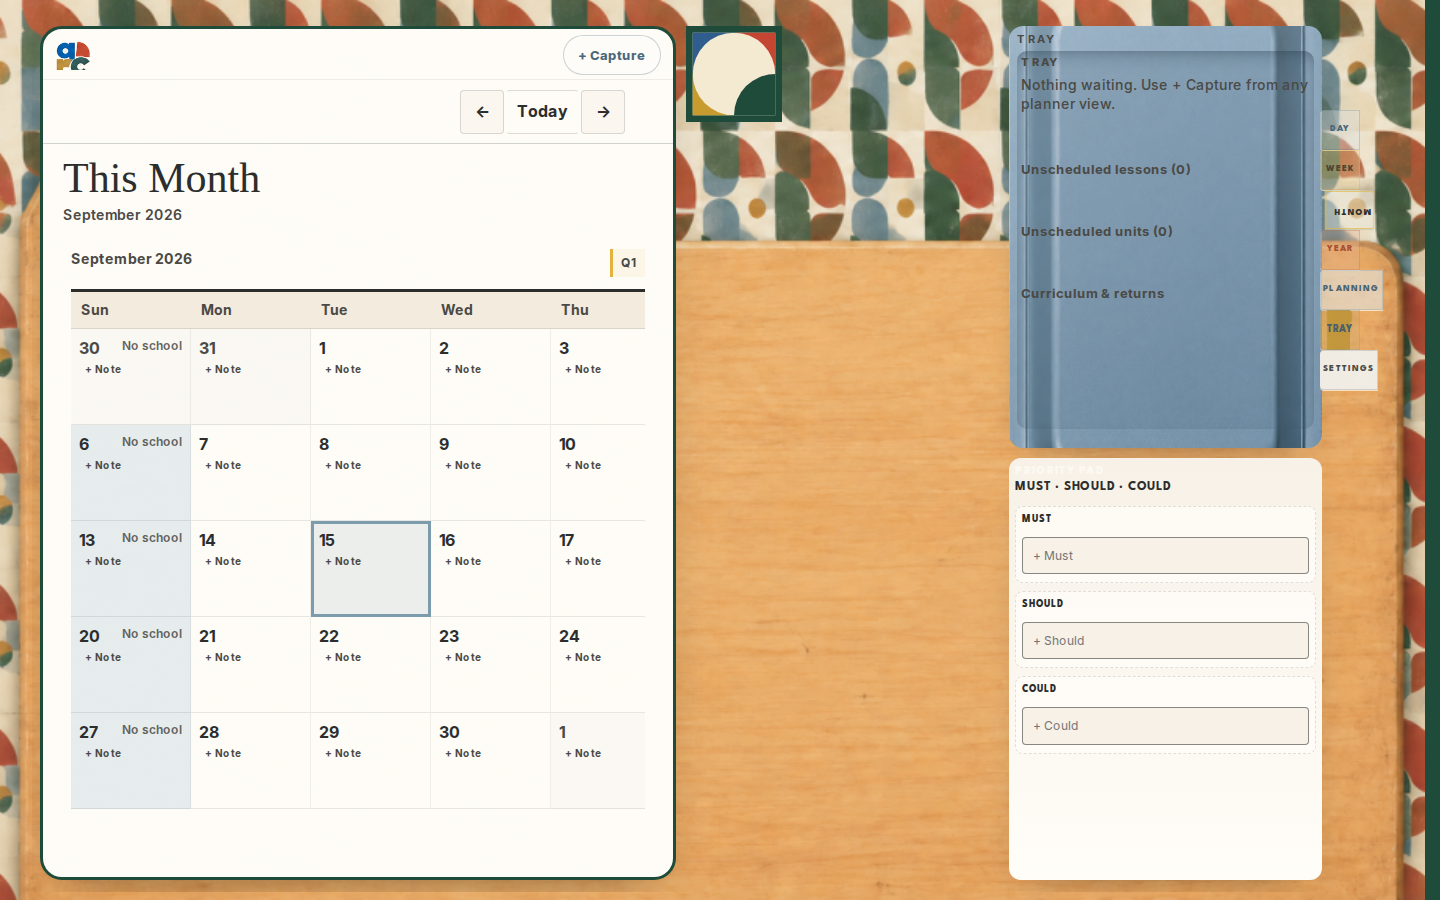
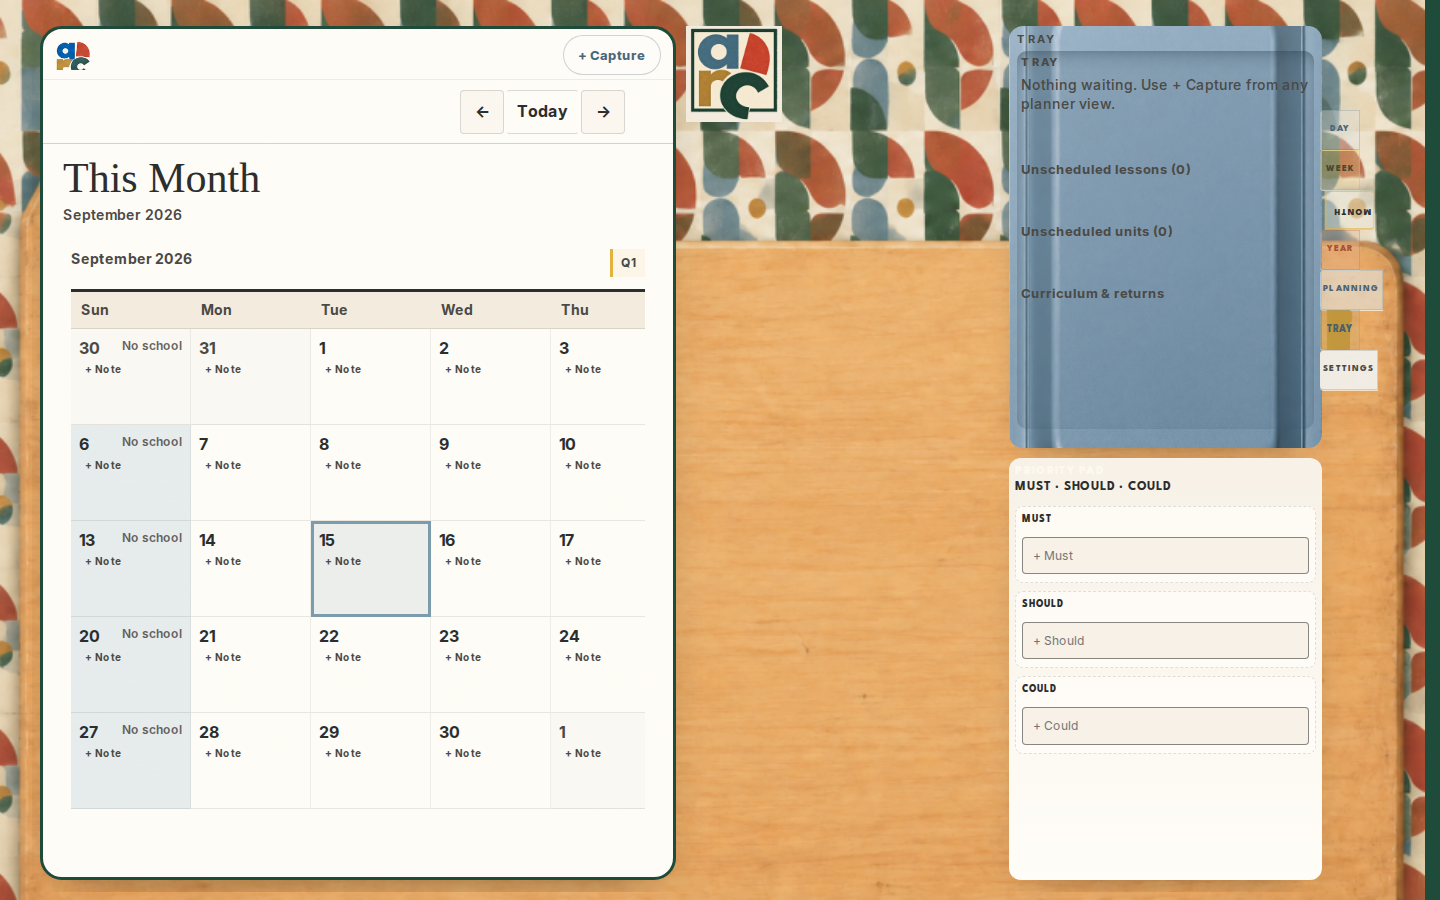
feat(desk): functional AT-001 ArcTable mark with five actions and entitlement routing
Wire center open and quadrant actions through arcTableDeskActions to existing
ArcTable session hooks. Use canonical SVG asset with expanded hit targets, contextual
free previews, live badge and context line, and disabled interactions during Edit
Workspace. Add action contract tests, update desk smokes and evidence.

Changed region(s): [[0.4688, 0.0311, 0.5625, 0.1556]]

diff --git a/src/components/PlanningMonthView.tsx b/src/components/PlanningMonthView.tsx
@@ -2,8 +2,8 @@ import type { MonthProjection, ProjectedDay } from '../calendar/projections'
 import type { ISODate, PlanNavigationContext } from '../calendar'
 import type { LessonWorkspace } from '../planning'
 import type { MonthLessonSignal, MonthPlanningProjection, MonthUnitSegment } from '../planning/monthPlanningProjection'
-import type { PlanningNote } from '../planning'
-import { CalendarDayNotes, CalendarDayNoteDropTarget, type CalendarDayNoteHandlers } from './CalendarDayNotes'
+import type { CaptureWorkspace, PlanningNote } from '../planning'
+import { CalendarDayCaptures, CalendarDayNotes, CalendarDayNoteDropTarget, type CalendarDayNoteHandlers } from './CalendarDayNotes'
 import { ArcImportantObject } from './ArcImportantObject'
 import { ArcObjectMenu, type ArcObjectMenuItem } from './ArcObjectMenu'
 import { formatLongDate, formatMonthKey, formatShortDate } from './dateLabels'
@@ -23,6 +23,8 @@ export function PlanningMonthView({
   onBeginPlanLessonMove,
   onSetLessonImportant,
   dayNotes,
+  captureWorkspace,
+  onMoveCaptureToDate,
 }: {
   month: MonthProjection
   planning: MonthPlanningProjection
@@ -36,6 +38,8 @@ export function PlanningMonthView({
   onBeginPlanLessonMove?: (input: { lessonId: string; sectionId: string | null; defaultDestination?: ISODate | null }) => void
   onSetLessonImportant?: (lessonId: string, important: boolean) => boolean
   dayNotes?: CalendarDayNoteHandlers
+  captureWorkspace?: CaptureWorkspace | null
+  onMoveCaptureToDate?: (captureId: string, anchorDate: ISODate | null) => boolean
 }) {
   const noteHandlers: CalendarDayNoteHandlers = dayNotes ?? {}
 
@@ -71,6 +75,8 @@ export function PlanningMonthView({
                   onSelectDate={onSelectDate}
                   onBeginPlanLessonMove={onBeginPlanLessonMove}
                   onSetLessonImportant={onSetLessonImportant}
+                  captureWorkspace={captureWorkspace}
+                  onMoveCaptureToDate={onMoveCaptureToDate}
                 />
               ))}
             </div>
@@ -122,6 +128,8 @@ function MonthDayCell({
   onSelectDate,
   onBeginPlanLessonMove,
   onSetLessonImportant,
+  captureWorkspace,
+  onMoveCaptureToDate,
 }: {
   day: ProjectedDay
   notes: PlanningNote[]
@@ -135,6 +143,8 @@ function MonthDayCell({
   onSelectDate?: (date: ISODate) => void
   onBeginPlanLessonMove?: (input: { lessonId: string; sectionId: string | null; defaultDestination?: ISODate | null }) => void
   onSetLessonImportant?: (lessonId: string, important: boolean) => boolean
+  captureWorkspace?: CaptureWorkspace | null
+  onMoveCaptureToDate?: (captureId: string, anchorDate: ISODate | null) => boolean
 }) {
   const nonTeaching = day.kind === 'no-school' || day.kind === 'holiday' || day.kind === 'break' || day.kind === 'teacher-workday'
   const dayStatus = day.kind === 'early-release'
@@ -156,6 +166,7 @@ function MonthDayCell({
     <CalendarDayNoteDropTarget
       date={day.date}
       onDropNote={(noteId, targetDate) => noteHandlers.onMove?.(noteId, targetDate) ?? false}
+      onDropCapture={onMoveCaptureToDate ? (captureId, targetDate) => onMoveCaptureToDate(captureId, targetDate) : undefined}
     >
       <div className={classes} aria-label={`${formatLongDate(day.date)}${ariaStatus ? `. ${ariaStatus}` : ''}`}>
         <div className="planning-month-day-heading">
@@ -163,6 +174,11 @@ function MonthDayCell({
           {dayStatus ? <span className="planning-month-day-status">{dayStatus}</span> : null}
         </div>
         <CalendarDayNotes notes={notes} date={day.date} compact dateBounds={monthDateBounds} handlers={noteHandlers} />
+        <CalendarDayCaptures
+          captures={captureWorkspace?.captures ?? []}
+          date={day.date}
+          onMoveCaptureToDate={onMoveCaptureToDate}
+        />
         <div className="planning-month-signals">
           {signals.map((signal) => (
             <MonthLessonSignalView

diff --git a/src/components/CalendarDayNotes.tsx b/src/components/CalendarDayNotes.tsx
@@ -1,6 +1,7 @@
 import { useId, useState, type ReactNode } from 'react'
 import type { ISODate } from '../calendar/types'
-import type { PlanningNote } from '../planning'
+import type { PlanningCapture, PlanningNote } from '../planning'
+import { hasTrayCaptureDrag, readTrayCaptureDrag, TRAY_CAPTURE_DRAG_MIME, encodeTrayCaptureDrag } from '../planning/deskDrag'
 import { ArcImportantObject } from './ArcImportantObject'
 import { ArcObjectMenu, promptMoveToDate, type ArcObjectMenuItem } from './ArcObjectMenu'
 
@@ -178,25 +179,70 @@ function DayNoteCard({
   )
 }
 
+export function CalendarDayCaptures({
+  captures,
+  date,
+  onMoveCaptureToDate,
+}: {
+  captures: PlanningCapture[]
+  date: ISODate
+  onMoveCaptureToDate?: (captureId: string, anchorDate: ISODate | null) => boolean
+}) {
+  const dayCaptures = captures.filter((capture) => capture.anchorDate === date)
+  if (!dayCaptures.length) return null
+  return (
+    <div className="calendar-day-captures" data-testid={`calendar-day-captures-${date}`}>
+      {dayCaptures.map((capture) => (
+        <button
+          key={capture.id}
+          type="button"
+          className="calendar-day-capture-chip"
+          data-testid={`calendar-capture-${capture.id}`}
+          draggable={Boolean(onMoveCaptureToDate)}
+          onDragStart={(event) => {
+            if (!onMoveCaptureToDate) return
+            event.dataTransfer.effectAllowed = 'move'
+            event.dataTransfer.setData(TRAY_CAPTURE_DRAG_MIME, encodeTrayCaptureDrag({ kind: 'capture', captureId: capture.id }))
+          }}
+        >
+          {capture.text}
+        </button>
+      ))}
+    </div>
+  )
+}
+
 export function CalendarDayNoteDropTarget({
   date,
   onDropNote,
+  onDropCapture,
   children,
 }: {
   date: ISODate
   onDropNote?: (noteId: string, date: ISODate) => boolean
+  onDropCapture?: (captureId: string, date: ISODate) => boolean
   children: ReactNode
 }) {
   return (
     <div
       className="calendar-day-note-drop"
+      data-drag-target="DATE"
+      data-plan-drop-date={date}
       onDragOver={(event) => {
-        if (event.dataTransfer.types.includes('application/x-arc-day-note-id')) {
+        const acceptsNote = event.dataTransfer.types.includes('application/x-arc-day-note-id')
+        const acceptsCapture = hasTrayCaptureDrag(event.dataTransfer)
+        if (acceptsNote || acceptsCapture) {
           event.preventDefault()
           event.dataTransfer.dropEffect = 'move'
         }
       }}
       onDrop={(event) => {
+        const capturePayload = readTrayCaptureDrag(event.dataTransfer)
+        if (capturePayload && onDropCapture) {
+          event.preventDefault()
+          onDropCapture(capturePayload.captureId, date)
+          return
+        }
         const noteId = event.dataTransfer.getData('application/x-arc-day-note-id')
         if (!noteId || !onDropNote) return
         event.preventDefault()

diff --git a/src/components/WorkspacePanel.tsx b/src/components/WorkspacePanel.tsx
@@ -1,4 +1,4 @@
-import { useEffect, useMemo, useRef, useState } from 'react'
+import { useEffect, useMemo, useRef, useState, type DragEvent } from 'react'
 import type { ISODate } from '../calendar'
 import type { CaptureWorkspace, Lesson, PlanningCapture, UnitWorkspace } from '../planning'
 import type { ObjectStack, StackWorkspace } from '../planning/stacks'
@@ -10,6 +10,7 @@ import {
   encodeTrayCaptureDrag,
   encodeTrayStackDrag,
   hasTrayCaptureDrag,
+  readTrayCaptureDrag,
 } from '../planning/deskDrag'
 import { ArcImportantObject } from './ArcImportantObject'
 import { ArcObjectMenu, promptMoveToDate, type ArcObjectMenuItem } from './ArcObjectMenu'
@@ -86,8 +87,29 @@ export function WorkspacePanel(props: Props) {
     }, STACK_DWELL_MS)
   }
 
+  function acceptTrayReturnDrop(event: DragEvent) {
+    if (!props.onMoveCaptureToDate || props.planningDragDisabled) return
+    if (!hasTrayCaptureDrag(event.dataTransfer)) return
+    event.preventDefault()
+    event.dataTransfer.dropEffect = 'move'
+  }
+
+  function handleTrayReturnDrop(event: DragEvent) {
+    if (!props.onMoveCaptureToDate || props.planningDragDisabled) return
+    const payload = readTrayCaptureDrag(event.dataTransfer)
+    if (!payload) return
+    event.preventDefault()
+    props.onMoveCaptureToDate(payload.captureId, null)
+  }
+
   return (
-    <div className="b01-fridge-content b01-fridge-content--repair-pass-3 b01-tray-content">
+    <div
+      className="b01-fridge-content b01-fridge-content--repair-pass-3 b01-tray-content"
+      data-drag-target="TRAY"
+      data-testid="tray-drop-surface"
+      onDragOver={acceptTrayReturnDrop}
+      onDrop={handleTrayReturnDrop}
+    >
       <section aria-labelledby="workspace-captures-heading" className="workspace-captures-primary">
         <div className="workspace-captures-heading-row">
           <h2 id="workspace-captures-heading">Tray</h2>

diff --git a/src/components/CalendarProjectionView.tsx b/src/components/CalendarProjectionView.tsx
@@ -46,9 +46,10 @@ type Props = {
   onSetLessonImportant?: (lessonId: string, important: boolean) => boolean
   onBeginPlanLessonMove?: (input: { lessonId: string; sectionId: string | null; defaultDestination?: ISODate | null }) => void
   onOpenRecoveryForSection?: (sectionId: string) => void
+  onMoveCaptureToDate?: (captureId: string, anchorDate: ISODate | null) => boolean
 }
 
-export function CalendarProjectionView({ view, calendar, anchorDate, planningContext, planContext, showWeekends = false, onStartClass, onSelectDate, onSelectYearUnit, onSelectTeachingBlock, onSelectLesson, onRetreatPlanFocus, onOpenWorkspace, onFollowPlanningAttention, onReturnToPlanningPeriod, planningPeriodReturnPending = false, captureWorkspace = null, dayNotes, onSetLessonImportant, onBeginPlanLessonMove, onOpenRecoveryForSection }: Props) {
+export function CalendarProjectionView({ view, calendar, anchorDate, planningContext, planContext, showWeekends = false, onStartClass, onSelectDate, onSelectYearUnit, onSelectTeachingBlock, onSelectLesson, onRetreatPlanFocus, onOpenWorkspace, onFollowPlanningAttention, onReturnToPlanningPeriod, planningPeriodReturnPending = false, captureWorkspace = null, dayNotes, onSetLessonImportant, onBeginPlanLessonMove, onOpenRecoveryForSection, onMoveCaptureToDate }: Props) {
   if (!calendar || !anchorDate) {
     return (
       <section className="calendar-unconfigured" aria-label="Calendar not configured">
@@ -144,6 +145,8 @@ export function CalendarProjectionView({ view, calendar, anchorDate, planningCon
                 onBeginPlanLessonMove={onBeginPlanLessonMove}
                 onSetLessonImportant={onSetLessonImportant}
                 dayNotes={dayNotes}
+                captureWorkspace={captureWorkspace}
+                onMoveCaptureToDate={onMoveCaptureToDate}
               />
             </div>
           ) : (

diff --git a/src/planning/stack.contract.ts b/src/planning/stack.contract.ts
@@ -9,6 +9,7 @@ import {
   unstack,
   EMPTY_STACK_WORKSPACE,
 } from './stacks'
+import { STACK_STORAGE_KEY, loadStackWorkspace, saveStackWorkspace } from './stackPersistence'
 
 function assert(condition: unknown, message: string): asserts condition {
   if (!condition) throw new Error(message)
@@ -44,5 +45,16 @@ assert(normalized.stacks[0].memberOrder.join(',') === 'a,b', 'Normalize must pre
 workspace = createStackFromMembers(EMPTY_STACK_WORKSPACE(calendarId), 'lesson', ['lesson-1', 'lesson-2'], 'lesson-stack')
 assert(workspace.stacks[0].memberKind === 'lesson', 'Lesson stacks must not imply curricular Units.')
 assert(unstack(workspace, 'lesson-stack').stacks.length === 0, 'Unstack must dissolve membership without deleting lessons.')
+
+const memory = new Map<string, string>()
+const storage = {
+  getItem: (key: string) => memory.get(key) ?? null,
+  setItem: (key: string, value: string) => { memory.set(key, value) },
+}
+workspace = createStackFromMembers(EMPTY_STACK_WORKSPACE(calendarId), 'capture', ['persist-a', 'persist-b'], 'persist-stack')
+assert(saveStackWorkspace(workspace, storage), 'Stack workspace must persist to storage.')
+assert(memory.has(STACK_STORAGE_KEY), 'Stack persistence must write canonical storage key.')
+const reloaded = loadStackWorkspace(calendarId, storage)
+assert(reloaded.stacks[0]?.stackId === 'persist-stack' && reloaded.stacks[0].memberOrder.join(',') === 'persist-a,persist-b', 'Reload must restore stack member order.')
 
 console.log('stack contract passed')

diff --git a/src/components/DeskSetupSettings.tsx b/src/components/DeskSetupSettings.tsx
@@ -24,10 +24,10 @@ export function DeskSetupSettings({ preferences, onChange, onEditWorkspace }: Pr
     <section className="b01-settings-group desk-setup-settings" aria-labelledby="settings-desk-setup">
       <h2 id="settings-desk-setup">Desk setup</h2>
       <p className="desk-setup-overview">
-        Customize desk arranges planner, tray, Must/Should/Could, and ArcTable on your real desk — not a miniature preview.
+        Edit Workspace arranges planner, tray, Must/Should/Could, and ArcTable on your real desk — not a miniature preview.
       </p>
       <button type="button" className="b01-settings-action b01-settings-action--primary" onClick={onEditWorkspace}>
-        Customize desk
+        Edit Workspace
       </button>
       {layoutCustomized ? <p className="desk-setup-hint" role="status">Your desk layout is customized.</p> : null}
 

diff --git a/src/components/DeskEditToolbar.tsx b/src/components/DeskEditToolbar.tsx
@@ -48,7 +48,7 @@ export function DeskEditToolbar({ selectedObject, sizes, onSizeChange, onDone, o
           {resetNeedsConfirm ? 'Confirm reset desk' : 'Reset desk'}
         </button>
         <button type="button" className="b01-settings-action b01-settings-action--primary" onClick={onDone}>
-          Done
+          Pin it down
         </button>
       </div>
     </div>

diff --git a/src/components/WorkspaceStage.tsx b/src/components/WorkspaceStage.tsx
@@ -257,6 +257,7 @@ export function WorkspaceStage(props: WorkspaceStageProps) {
         onSetLessonImportant={onSetLessonImportant}
         onBeginPlanLessonMove={onBeginPlanLessonMove}
         onOpenRecoveryForSection={onOpenRecoveryForSection}
+        onMoveCaptureToDate={_moveCaptureToDate}
       />
     </>
   )

diff --git a/docs/overnight/ARC-DESK-PASS-REPORT.md b/docs/overnight/ARC-DESK-PASS-REPORT.md
@@ -20,7 +20,7 @@ Baseline: workspace layout migration + desk integration fixes (`698e130`)
 | K | Capture → MSC (canonical move) | **GREEN** — drag capture to lane promotes to task + removes capture |
 | L | Drag audit | **YELLOW** — HTML5 DnD reused/extended (`deskDrag.ts`); tray↔calendar lesson DnD not expanded |
 | M | Day notes / Important laws | **GREEN** — untouched through integration (`2079ff4`) |
-| N | Settings Desk setup addendum | **GREEN** — teacher IA (My school year … Data / import / reuse); **Customize desk** → live edit mode; **Done** / **Reset desk** |
+| N | Settings Desk setup addendum | **GREEN** — teacher IA (My school year … Data / import / reuse); **Edit Workspace** → live edit mode; **Pin it down** / **Reset desk** |
 | O | Onboarding / school lookup / logo | **GREEN** — no regressions in touched paths |
 | P | ArcTable entry | **GREEN** — AT-001 desk mark on wood; ArcTable session internals unchanged |
 | Q | Move/Shift/Recovery | **GREEN** — out of scope, unchanged |
@@ -56,10 +56,10 @@ Baseline: workspace layout migration + desk integration fixes (`698e130`)
 | Item | Status |
 |------|--------|
 | Settings → **Edit Workspace** (no tray/planner coordinate dropdowns) | **GREEN** |
-| Real desk arrangement mode + grid; size presets in edit toolbar | **GREEN** |
-| Planning drag de-emphasized during edit | **GREEN** |
-| Finish copy | **GREEN** — primary **Pin it down** (alternatives: Set my desk / Looks good / Keep it here) |
-| `workspaceLayout` persisted (`arc.workspace-layout.v1`) separate from planning placement | **GREEN** |
+| Real desk edit mode + normalized zones/grid; size presets in edit toolbar | **GREEN** |
+| Planning drag de-emphasized during edit (tray captures + MSC tasks) | **GREEN** |
+| Finish copy | **GREEN** — primary **Pin it down**; **Reset desk** with confirm when customized |
+| Layout persisted (`arc.desk-layout.v1` / `workspaceLayout` alias) separate from planning placement | **GREEN** |
 | Furniture locked after pin; tray post-its still draggable | **GREEN** |
 
 ## Stacks (Addendum §7–31) — MVP
